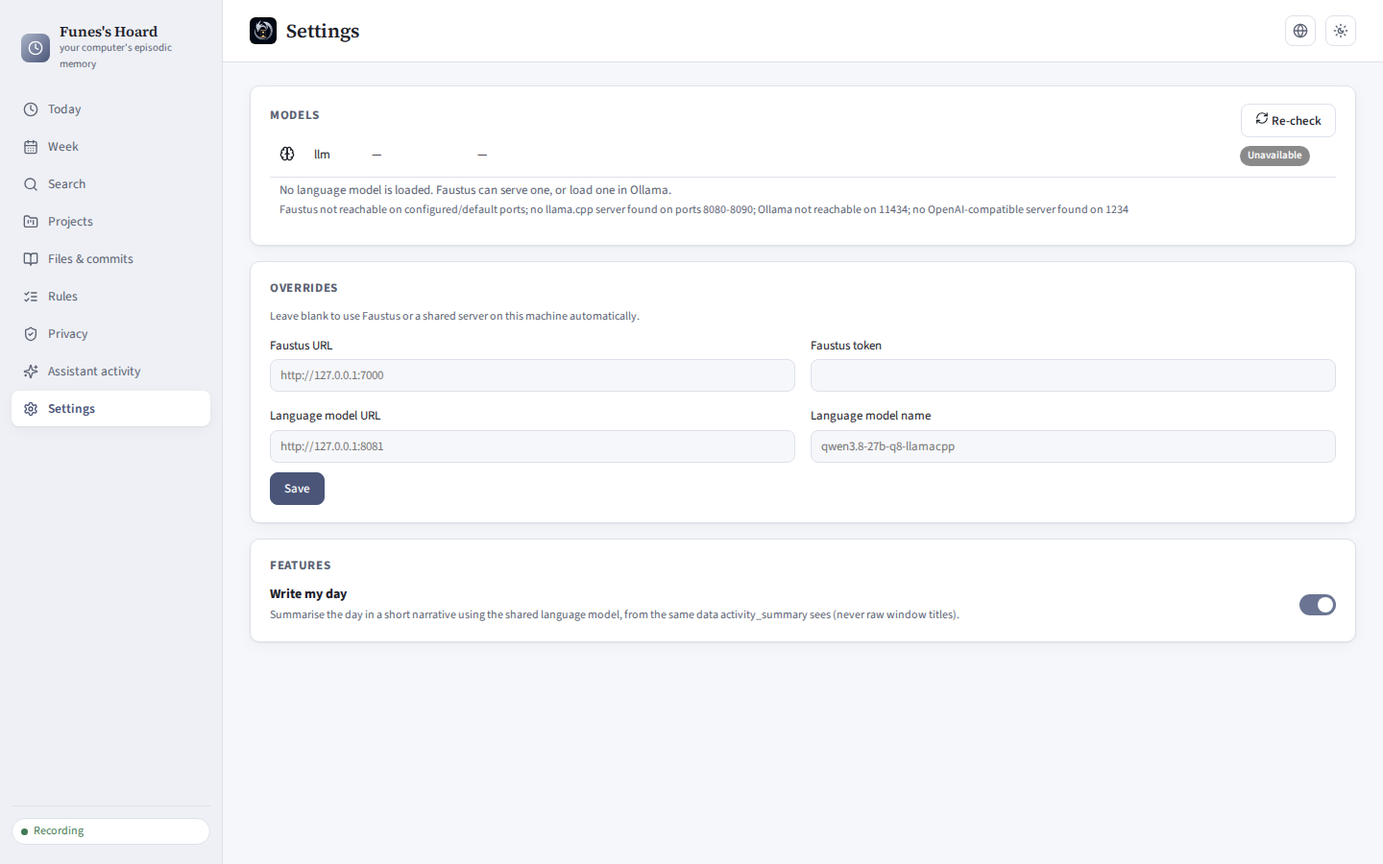
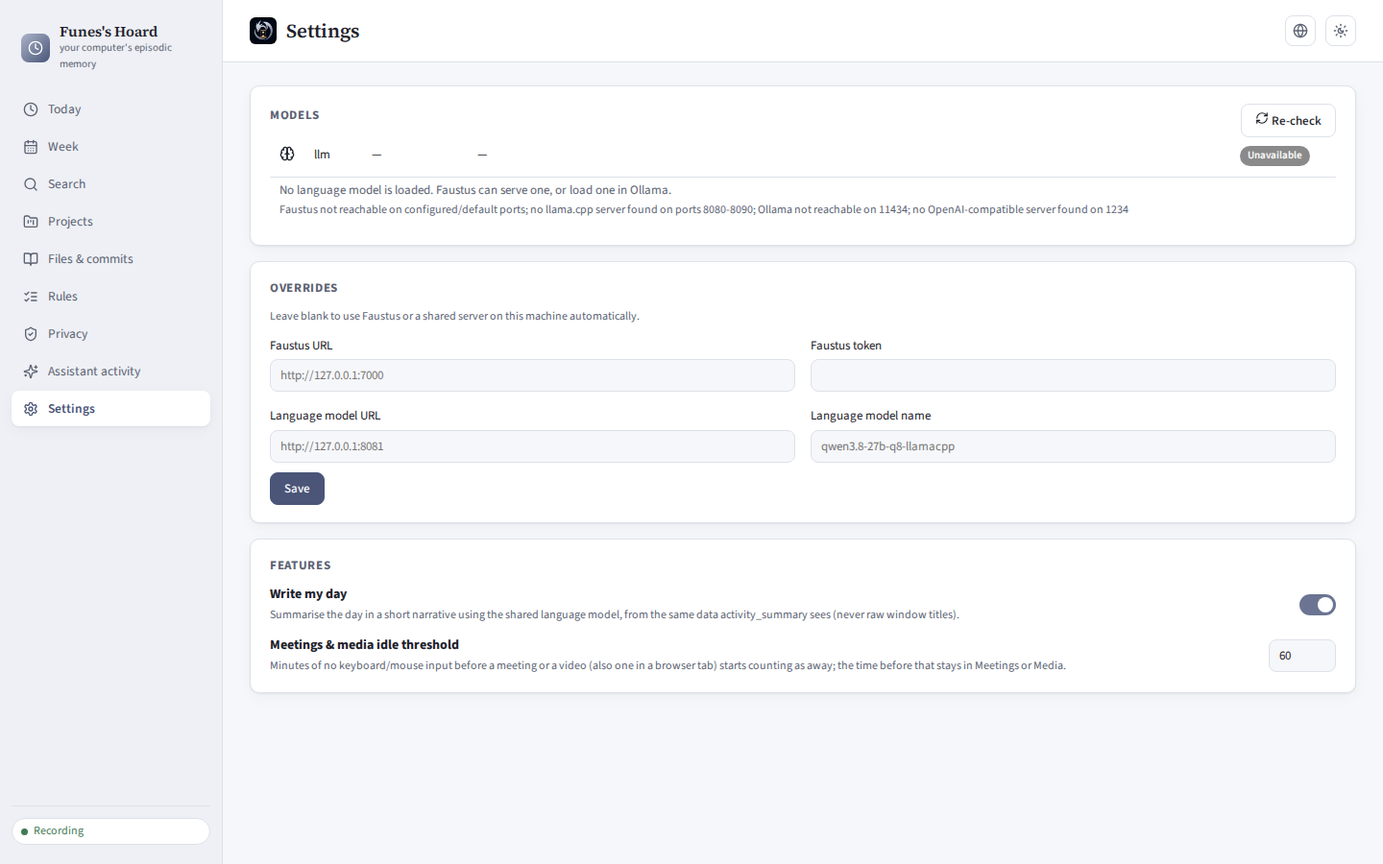
docs: add use cases to the READMEs and record the re-walk
Both READMEs get a short "Use cases" section linking to
docs/USE_CASES.md, and their feature table, limits and test count (270)
describe what the re-walk added. USE_CASES.md follows the new steps (the
Where was I? card, the delete shortcut, the CSV export, `around`),
ARCHITECTURE.md explains the meetings/media away rule, and
USABILITY_REPORT.md records what the second walk found, what was fixed,
a verdict per use case and what is still open. The screenshots are
retaken from the demo data.

Claude-Session: https://claude.ai/code/session_019KVoFTp2agjwLaonbFXam5

Changed region(s): [[0.1875, 0.7156, 0.7812, 0.7778]]

diff --git a/README.es.md b/README.es.md
@@ -6,7 +6,7 @@
 
 [English](README.md) · [Ejecutar en local](#ejecutar-en-local-en-windows) · [Conectar una IA](docs/MCP.md) · [Portfolio](https://luissalet.github.io/Portfolio/#projects)
 
-![Vista del día: la línea de tiempo de ayer ajustada a las horas activas, un tramo fijado y totales por categoría, aplicación y proyecto](docs/media/today.png)
+![Vista del día: la línea de tiempo de ayer ajustada a las horas activas con la ausencia rayada, un tramo fijado y la tarjeta ¿Dónde lo dejé? con los últimos contextos de trabajo](docs/media/today.png)
 *Aplicación real, tres días de datos de demostración sintéticos (`--demo`, sin títulos de ventana reales).*
 
 ## Por qué
@@ -21,19 +21,50 @@ archivos que abriste y los commits que hiciste. Lo convierte en tramos,
 resúmenes del día, bloques de concentración y respuestas para retomar el
 contexto, y le da al asistente ocho herramientas pequeñas para consultarlo.
 
+## Casos de uso
+
+Ocho escenarios concretos, recorridos de principio a fin como persona en el
+navegador y como modelo local por MCP ([docs/USE_CASES.md](docs/USE_CASES.md);
+hallazgos y arreglos en [docs/USABILITY_REPORT.md](docs/USABILITY_REPORT.md)):
+
+- **Lunes por la mañana, "¿dónde lo dejé?"**: la pantalla Hoy abre con los
+  tres últimos contextos de trabajo (proyecto, últimos títulos, archivos,
+  commits), así que el último archivo del viernes se ve antes de elegir un
+  día; un clic fija ese momento en la línea de tiempo de su día.
+- **"Faustus, ¿dónde lo dejé ayer?"**: una sola llamada a
+  `activity_where_was_i`, unos 500 tokens, responde con el proyecto, la
+  ventana y el título del editor que nombra el archivo, sin contar la música
+  ni el chat.
+- **Una nota semanal para la búsqueda de empleo**: `activity_summary` da
+  las horas por proyecto como textos listos para leer, y una búsqueda de
+  los portales de empleo o del título de la novela dice cuánto tiempo
+  estuvieron abiertas esas ventanas; Faustus escribe la nota con su propia
+  herramienta de notas.
+- **"Esa página de FTS5 del martes"**: buscas, haces clic en el resultado y
+  llegas a ese día con el tramo fijado (la dirección lo conserva, así que
+  recargar y Atrás funcionan); un agente pasa el `ts` del resultado a
+  `activity_timeline(around=...)`.
+- **Privacidad antes de una entrevista o del banco**: pausa de una hora,
+  las ventanas privadas (también "incógnito" en español) y las páginas del
+  banco nunca se pueden buscar, y "Últimos 30 min" rellena el borrado de un
+  rango para la media hora que se te olvidó.
+- **Horas por proyecto para un gráfico**: exporta los tramos a CSV (fechas y
+  horas locales, minutos, categoría, proyecto) para una hoja de cálculo o la
+  app de análisis de datos.
+
 ## Qué está implementado
 
 | Área | Disponible ahora | Límite |
 | --- | --- | --- |
-| Captura | Aplicación en primer plano, título de ventana, inactividad y bloqueo, muestreados cada segundo en Windows (`ctypes` + `psutil`); agrupados en tramos activo/ausente/bloqueado; la ausencia empieza cuando dejaste de usar teclado y ratón, no cuando se detecta; las suspensiones y los momentos excluidos o en pausa cierran el tramo en lugar de estirarlo; el tramo abierto se guarda cada 30 s y, si la aplicación se cae, se cierra al volver a arrancar | La sonda de Linux (`xdotool`/`xprintidle`) es solo para desarrollo; las llamadas Win32 no se han ejecutado en este entorno (ver la nota de Windows) |
-| Privacidad | Las reglas de exclusión descartan la muestra antes de guardarla (gestores de contraseñas, ventanas privadas o de incógnito, en inglés y español); las de ocultación guardan la aplicación y sustituyen el título; las reglas no válidas se rechazan en lugar de ignorarse en silencio; pausa de 15 min, 1 h o hasta reanudar, que se reanuda sola; purga por antigüedad; borrado de un rango (incluidos los tramos que lo solapan y sus entradas de búsqueda); exportación a JSON | Las reglas se aplican desde que se añaden, no a los títulos ya guardados |
+| Captura | Aplicación en primer plano, título de ventana, inactividad y bloqueo, muestreados cada segundo en Windows (`ctypes` + `psutil`); agrupados en tramos activo/ausente/bloqueado; la ausencia empieza cuando dejaste de usar teclado y ratón, no cuando se detecta, salvo en una reunión o un vídeo (también en una pestaña del navegador), que tienen un umbral aparte y más largo (60 min por defecto) antes de que solo lo que pase de él cuente como ausencia; las suspensiones y los momentos excluidos o en pausa cierran el tramo en lugar de estirarlo; el tramo abierto se guarda cada 30 s y, si la aplicación se cae, se cierra al volver a arrancar | La sonda de Linux (`xdotool`/`xprintidle`) es solo para desarrollo; las llamadas Win32 no se han ejecutado en este entorno (ver la nota de Windows) |
+| Privacidad | Las reglas de exclusión descartan la muestra antes de guardarla (gestores de contraseñas, ventanas privadas o de incógnito, en inglés y español); las de ocultación guardan la aplicación y sustituyen el título; las reglas no válidas se rechazan en lugar de ignorarse en silencio; pausa de 15 min, 1 h o hasta reanudar, que se reanuda sola; purga por antigüedad; borrado de un rango (incluidos los tramos que lo solapan y sus entradas de búsqueda), con atajos de últimos 15 min / 30 min / última hora / hoy; exportación de los tramos a CSV o de todo a JSON, opcionalmente para un rango de días | Las reglas se aplican desde que se añaden, no a los títulos ya guardados |
 | Clasificación | Reglas ordenadas por aplicación, expresión regular del título o dominio en el título, con valores por defecto para las aplicaciones habituales de Windows; detección del proyecto en títulos de VS Code (carpetas con guiones, remotas e Insiders), JetBrains y Visual Studio, y por los nombres de los repositorios git encontrados; vista previa ("reclasificaría N tramos"); reaplicación al historial en segundo plano, con progreso | No se lee la barra de direcciones del navegador; una regla de "dominio" busca el texto en el título |
-| Conocimiento derivado | Totales por día, semana o rango, por categoría, aplicación y proyecto, recortados en los bordes del periodo; primera y última actividad; cambios de contexto (>= 10 s); bloques de concentración (>= 25 min, cada interrupción <= 2 min); "dónde estaba" con contextos distintos, su último título, archivos y commits | La concentración se mide por tiempo en ventana; no dice nada de la atención real |
+| Conocimiento derivado | Totales por día, semana o rango, por categoría, aplicación y proyecto, recortados en los bordes del periodo; primera y última actividad; cambios de contexto (>= 10 s); bloques de concentración (>= 25 min, cada interrupción <= 2 min); "dónde estaba" con contextos distintos (primero el trabajo; sin música, chats ni juegos salvo que se pida), sus últimos títulos, archivos (primero los del propio proyecto) y commits | La concentración se mide por tiempo en ventana; no dice nada de la atención real |
 | Otras fuentes | Archivos recientes mediante un lector de accesos directos (`.lnk`) escrito a partir de la especificación (rutas Unicode, sufijos de ruta, archivos truncados rechazados); commits de git en las carpetas configuradas, filtrados por los autores indicados o, por defecto, por la identidad git de cada repositorio | No se ven los archivos que no pasan por "Elementos recientes" de Windows |
-| Búsqueda | SQLite FTS5 sobre títulos, rutas de archivo y asuntos de commits, sin distinguir tildes, por prefijo de palabra y a prueba de cualquier entrada; si no aparece nada con todas las palabras, prueba con cualquiera | Si el sqlite3 de la plataforma no trae FTS5, se usa una búsqueda `LIKE` (se comprueba al arrancar) |
-| API del agente | Ocho herramientas, de solo lectura salvo una pausa que solo puede alargarse; horas ISO locales y textos legibles en cada resultado; límites pequeños con `has_more`/`next_offset`; todas las llamadas quedan registradas, también las rechazadas | Por diseño, el agente no puede reanudar, cambiar reglas, borrar ni exportar |
+| Búsqueda | SQLite FTS5 sobre títulos, rutas de archivo y asuntos de commits, sin distinguir tildes, por prefijo de palabra y a prueba de cualquier entrada; si no aparece nada con todas las palabras, prueba con cualquiera; un resultado de ventana dice cuánto tiempo estuvo abierta y, en la interfaz, abre su día en ese momento | Si el sqlite3 de la plataforma no trae FTS5, se usa una búsqueda `LIKE` (se comprueba al arrancar) |
+| API del agente | Ocho herramientas, de solo lectura salvo una pausa que solo puede alargarse; horas ISO locales y textos legibles en cada resultado; límites pequeños con `has_more`/`next_offset`; los ids y las horas se encadenan de una llamada a la siguiente (`activity_timeline(around=<ts de un resultado>)`); todas las llamadas quedan registradas, también las rechazadas | Por diseño, el agente no puede reanudar, cambiar reglas, borrar ni exportar |
 | Modelos compartidos | "Escribe mi día": una narración breve del día en segunda persona ("You spent the morning on..."; el modelo recibe las instrucciones en inglés y suele responder en inglés), guardada y regenerable, a partir de los mismos datos compactos que devuelve `activity_summary` (nunca títulos reales u ocultados); en Ajustes se ve el modelo resuelto, el proveedor y, si no hay ninguno, el motivo en una frase, con un botón para volver a comprobar y ajustes manuales | Solo en la interfaz, no es una herramienta MCP; necesita un modelo de lenguaje accesible por Hoard Link (Faustus, o un Ollama/llama.cpp/OpenAI-compatible compartido); un día sin nada registrado se rechaza sin llamar al modelo |
-| Interfaz | Hoy (línea de tiempo con zoom, leyenda, detalle fijado y "Escribe mi día"), Semana (navegable), Buscar (filtro de fechas), Proyectos (selector de periodo), Archivos y commits, Reglas, Privacidad, Ajustes (Modelos), Actividad del asistente; español e inglés; tema claro y oscuro | Pensada para escritorio, no para móvil |
+| Interfaz | Hoy (línea de tiempo con zoom en la que se ven la ausencia y el bloqueo, leyenda, detalle fijado, tramos accesibles con el teclado, "¿Dónde lo dejé?" y "Escribe mi día"), Semana (navegable), Buscar (filtro de fechas), Proyectos (selector de periodo), Archivos y commits, Reglas, Privacidad, Ajustes (Modelos), Actividad del asistente; cada día y cada momento tienen su propia dirección (recargar y Atrás funcionan); español e inglés; tema claro y oscuro | Pensada para escritorio, no para móvil |
 
 Más pantallas: [Buscar](docs/media/search.png) · [Privacidad](docs/media/privacy.png) ·
 [Ajustes](docs/media/settings.png) ·
@@ -109,7 +140,7 @@ ni sqlite. Detalles en [docs/ARCHITECTURE.md](docs/ARCHITECTURE.md).
 ## Pruebas
 
 ```
-.venv/bin/python -m pytest -q          # 251 pasan en unos 14 s
+.venv/bin/python -m pytest -q          # 270 pasan en unos 15 s
 cd frontend && npm ci && npm run build  # 0 errores de TypeScript
 ```
 
@@ -151,7 +182,7 @@ de llamadas.
 - El asistente solo ve lo que devuelven las ocho herramientas y solo puede
   hacer una cosa: pausar (o alargar una pausa). Cada llamada aparece en
   "Actividad del asistente".
-- Los resultados están acotados (de 5 a 40 elementos por defecto, 100 como
+- Los resultados están acotados (de 5 a 20 elementos por defecto, 100 como
   máximo) y los títulos largos se recortan, porque quien los lee es un
   modelo local con un contexto limitado.
 - "Escribe mi día" solo envía al modelo de lenguaje los datos compactos de

diff --git a/README.md b/README.md
@@ -6,7 +6,7 @@
 
 [Español](README.es.md) · [Run locally](#run-locally-on-windows) · [Connect an AI](docs/MCP.md) · [Portfolio](https://luissalet.github.io/Portfolio/#projects)
 
-![Day view: yesterday's timeline zoomed to the active hours, one segment pinned, totals by category, app and project](docs/media/today.png)
+![Day view: yesterday's timeline zoomed to the active hours with away time hatched, one segment pinned, and the Where was I? card with the last work contexts](docs/media/today.png)
 *Actual application, three days of synthetic demo data (`--demo`, no real window titles).*
 
 ## Why
@@ -20,19 +20,47 @@ locked time, the files they opened and the commits they made. It turns
 that into spans, day summaries, focus blocks and resume-context answers,
 and gives the assistant eight small tools to ask for them.
 
+## Use cases
+
+Eight concrete scenarios, each walked end to end as a person in the browser
+and as a local model over MCP ([docs/USE_CASES.md](docs/USE_CASES.md), findings
+and fixes in [docs/USABILITY_REPORT.md](docs/USABILITY_REPORT.md)):
+
+- **Monday morning, "where was I?"**: the Today screen opens with the last
+  three work contexts before now (project, last titles, files, commits), so
+  Friday's last file is on screen before you pick a day; one click pins that
+  moment in its day's timeline.
+- **"Faustus, ¿dónde lo dejé ayer?"**: one `activity_where_was_i` call,
+  about 500 tokens, answers with the project, the window and the editor
+  title that names the file, skipping the music player and the chat.
+- **A weekly note for the job hunt**: `activity_summary` gives hours per
+  project as ready-to-read strings, and a search for the job boards or the
+  novel's title says how long those windows were open; Faustus writes the
+  note with its own notes tool.
+- **"That FTS5 page from Tuesday"**: search, click the hit and land on that
+  day with the segment pinned (the address keeps it, so reload and Back
+  work); an agent passes the hit's `ts` to `activity_timeline(around=...)`.
+- **Privacy before an interview or the bank**: pause for an hour, private
+  windows (also Spanish "incógnito") and bank pages never become searchable,
+  and "Last 30 min" fills the delete-range pickers for the half hour you
+  forgot.
+- **Hours per project for a chart**: export spans as CSV (local dates and
+  times, minutes, category, project) for a spreadsheet or the data-analysis
+  app.
+
 ## What is implemented
 
 | Area | Available now | Boundary |
 | --- | --- | --- |
-| Collection | Foreground app, window title, idle and locked state sampled every second on Windows (`ctypes` + `psutil`); merged into active/away/locked spans; away time back-dated to when input stopped; sleep gaps and excluded or paused moments close the span instead of bridging it; the open span is flushed every 30 s and a crashed session's span is closed on the next start | The Linux probe (`xdotool`/`xprintidle`) is a development aid; the Win32 calls themselves were not run in this build environment (see the Windows note) |
-| Privacy | Exclusion rules drop a sample before it is stored (password managers, private/incognito windows, EN+ES); redaction rules keep the app and replace the title; invalid rules are rejected, not silently ignored; pause 15 min / 1 h / until resumed, with automatic resume; retention purge; delete a range (overlapping spans and their search rows included); JSON export | Rules apply from the moment they are added, not retroactively to stored titles |
+| Collection | Foreground app, window title, idle and locked state sampled every second on Windows (`ctypes` + `psutil`); merged into active/away/locked spans; away time back-dated to when input stopped, except in a meeting or a video (also one in a browser tab), which get a separate, longer threshold (60 min by default) before only the rest counts as away; sleep gaps and excluded or paused moments close the span instead of bridging it; the open span is flushed every 30 s and a crashed session's span is closed on the next start | The Linux probe (`xdotool`/`xprintidle`) is a development aid; the Win32 calls themselves were not run in this build environment (see the Windows note) |
+| Privacy | Exclusion rules drop a sample before it is stored (password managers, private/incognito windows, EN+ES); redaction rules keep the app and replace the title; invalid rules are rejected, not silently ignored; pause 15 min / 1 h / until resumed, with automatic resume; retention purge; delete a range (overlapping spans and their search rows included), with last 15 min / 30 min / hour / today shortcuts; export spans as CSV or everything as JSON, optionally for a range of days | Rules apply from the moment they are added, not retroactively to stored titles |
 | Classification | Ordered app / title-regex / domain-in-title rules with defaults for common Windows apps; project detection from VS Code (hyphenated folders, remote and Insiders titles), JetBrains and Visual Studio titles, plus the names of discovered git repos; live preview ("would reclassify N spans"); reapply to history as a background job with progress | Browser domains are not read from the address bar; a "domain" rule matches text in the title |
-| Derived knowledge | Day, week and range totals by category/app/project, clipped at the window edges; first/last activity; context switches (>= 10 s dwell); focus blocks (>= 25 min, each interruption <= 2 min); "where was I" with distinct contexts, their last title, files and commits | Focus is measured from window time only; it says nothing about attention |
+| Derived knowledge | Day, week and range totals by category/app/project, clipped at the window edges; first/last activity; context switches (>= 10 s dwell); focus blocks (>= 25 min, each interruption <= 2 min); "where was I" with distinct contexts (work first; music, chat and games left out unless asked), their recent titles, files (the project's own first) and commits | Focus is measured from window time only; it says nothing about attention |
 | Other sources | Recent files from a Shell Link (`.lnk`) parser written from the spec (Unicode paths, path suffixes, truncated files rejected); git commits from configured roots, filtered by configured authors or, by default, each repo's own git identity | Files opened without passing through Windows Recent Items are not seen |
-| Search | SQLite FTS5 over titles, file paths and commit subjects, accent-insensitive, prefix words, safe for any input; falls back to "any word" when all words find nothing | If the platform's sqlite3 lacks FTS5 the app uses `LIKE` search (checked at startup) |
-| Agent API | Eight tools, read-only except a pause that can only extend; local ISO times and human strings in every result; small limits with `has_more`/`next_offset`; every call audited, including rejected ones | The agent cannot resume, change rules, delete or export, by design |
+| Search | SQLite FTS5 over titles, file paths and commit subjects, accent-insensitive, prefix words, safe for any input; falls back to "any word" when all words find nothing; a window hit says how long it was open and, in the interface, opens its day at that moment | If the platform's sqlite3 lacks FTS5 the app uses `LIKE` search (checked at startup) |
+| Agent API | Eight tools, read-only except a pause that can only extend; local ISO times and human strings in every result; small limits with `has_more`/`next_offset`; ids and times chain from one call into the next (`activity_timeline(around=<a hit's ts>)`); every call audited, including rejected ones | The agent cannot resume, change rules, delete or export, by design |
 | Shared models | "Write my day": a cached, regenerable short narrative of a day ("You spent the morning on..."), from the same compact data `activity_summary` returns (never raw or redacted titles); Settings shows the resolved model, provider and a plain-English reason when none is available, with a Re-check button and manual overrides | UI-only, not an MCP tool; needs a language model reachable through Hoard Link (Faustus, or a shared Ollama/llama.cpp/OpenAI-compatible server); a day with nothing recorded is refused without calling the model |
-| Interface | Today (zoomable timeline, legend, pinned details, Write my day), Week (navigable), Search (date filter), Projects (range picker), Files & commits, Rules, Privacy, Settings (Models), Assistant activity; English/Spanish; light/dark | Desktop layout; not designed for phones |
+| Interface | Today (zoomable timeline with away and locked time drawn, legend, pinned details, keyboard-focusable segments, Where was I?, Write my day), Week (navigable), Search (date filter), Projects (range picker), Files & commits, Rules, Privacy, Settings (Models), Assistant activity; every day and moment has its own address (reload and Back work); English/Spanish; light/dark | Desktop layout; not designed for phones |
 
 More screens: [Search](docs/media/search.png) · [Privacy](docs/media/privacy.png) ·
 [Settings](docs/media/settings.png) ·
@@ -105,7 +133,7 @@ or sqlite imports. See [docs/ARCHITECTURE.md](docs/ARCHITECTURE.md).
 ## Tests
 
 ```
-.venv/bin/python -m pytest -q          # 251 passed in about 14 s
+.venv/bin/python -m pytest -q          # 270 passed in about 15 s
 cd frontend && npm ci && npm run build  # 0 TypeScript errors
 ```
 
@@ -140,7 +168,7 @@ log.
 - The assistant sees only what the eight tools return and can do exactly
   one thing: pause (or lengthen a pause). Every call is listed in
   "Assistant activity".
-- Results are capped (default 5-40 items, maximum 100) and long titles are
+- Results are capped (default 5-20 items, maximum 100) and long titles are
   truncated, because the intended consumer is a local model with a finite
   context window.
 - "Write my day" only ever sends the compact `activity_summary` data

diff --git a/docs/USABILITY_REPORT.md b/docs/USABILITY_REPORT.md
@@ -259,6 +259,8 @@ other commit in this repo; each commit is small and self-contained.
 
 ### Left for a later pass, and why
 
+*All of these were done in the re-walk; see "Re-walk after the fixes" below.*
+
 - **A8 (search hits cannot be traced to their surroundings)** and **A9
   (delete-range presets)** and **A10 (CSV export + a range picker in the
   UI)** are UI/UX additions (click-through routing, preset buttons, a new
@@ -278,3 +280,70 @@ other commit in this repo; each commit is small and self-contained.
   as the bar to keep green, not a full browser re-walk. Every fix above has
   its own unit/integration regression test instead. A screenshot re-walk
   after the deferred UI items land would be the natural next step.
+
+## Re-walk after the fixes
+
+Every use case was walked again, on data regenerated with the fixed
+collector (38 repos, 14 days, 90,329 samples -> 572 spans; zero overlapping
+and zero zero-length spans), as a person (`scripts/ui_walkthrough.py`, 1280x800
+English and 1920x1080 Spanish, every screenshot read) and as an agent
+(`scripts/agent_walkthrough.py`, 22 calls over real MCP stdio). Both scripts
+now assert each use case's "done when" and exit non-zero when one fails; the
+final runs pass every check with no console errors and no result carrying an
+image. Tests: 251 -> 270 (every fix below has its regression test; the
+interface changes are checked by the walkthrough's assertions), plus
+`npm ci && npm run build`, the MCP protocol test and the manifest test.
+
+### What the re-walk still found, and what was done
+
+| Use case | Found | Fix | Commit |
+|---|---|---|---|
+| UC3 | The first A3 fix did not hold on real data: the 45-minute Zoom interview was still 45 minutes away and every fan film was away. Once past the threshold, the away span was back-dated to the last input (the start of the call), and films in a browser tab were Browsing with the 2-minute threshold. | Meetings/Media away starts when the threshold is crossed, not at the last input; default 60 min; a streaming-site title rule (YouTube, Netflix, Twitch...) placed before the browser rules, by an ordered migration. Both interviews are now 45 min of Meetings, the films 9.2 h of Media. | `487166a` |
+| UC4 (agent) | Chaining a hit into "what was around it" needed ISO arithmetic by the model. | `activity_timeline(around=<hit ts>)`, +-30 min, every span. | `8968650` |
+| UC3 (agent) | The job search and the novel could be counted, not measured. | Window hits carry `duration_s`/`human`; the result totals them in `windows_open_human` (job boards 38 min, novel 1 h 36 min this week). | `8968650` |
+| UC1/UC2 | "Where was I" named the project but its title was the final terminal (`pwsh - daguerres-hoard`); the file was nowhere, and unrelated files came first. | `recent_titles` (the editor title is the second one); files inside the project's folder first; `app` matches the last title. | `8968650`, `ef2d9a3` |
+| UC1 (person) | No "where was I" in the interface; header said "Today" on Monday. | A "Where was I?" card on Today (before now, or before the shown day ended) with "Show in timeline"; header says Yesterday/Day. | `db73474` |
+| UC4 (person) | A8: a hit was plain text; reload lost the day, Back left the app. | Hash routes for view, day and moment; a hit opens its day with the segment pinned; reload and Back work (checked in the walkthrough). | `db73474` |
+| UC5 | A9: delete range was two bare pickers. | Last 15 min / 30 min / hour / today shortcuts; the confirmation is unchanged. | `db73474` |
+| UC8 | A10: JSON with epoch seconds only. | `GET /api/privacy/export.csv` and a From/To day range in the UI; grouping the CSV by `date` and `project` gives hours per day with stdlib `csv` alone. | `ef2d9a3`, `db73474` |
+| all | A browser reporting `en-US@posix` (headless Chromium on this box) made every date format throw and blanked the whole app. | Such a locale falls back to the default; the walkthrough opens the app once with the browser's own locale. | `db73474` |
+| cosmetic | C2, C3, C4, C6; "0m" for 12-second blips. | Away/locked drawn hatched with legend entries; header; English backend reason behind "Technical details"; focusable segments (Enter pins); "<1m". | `db73474` |
+
+### Verdict per use case
+
+- **UC1 Monday "where was I?"** -- works. The card shows the last three work
+  contexts (project, the editor title naming the file, files, commits) on
+  opening; "Show in timeline" pins the moment.
+- **UC2 "¿dónde lo dejé ayer?"** -- works. One call, ~480 tokens, project
+  first, music and chat skipped, the file in `recent_titles`.
+- **UC3 weekly review** -- works with a caveat: hours per project, the job
+  search and the novel all come as human strings, meetings are counted; the
+  note itself is written by Faustus's notes tool, which was not available
+  here (composed, not saved).
+- **UC4 "that FTS5 page"** -- works, in the UI (click -> pinned moment) and
+  over MCP (`around`).
+- **UC5 privacy** -- works: pause shown with its end time, "incógnito" and
+  the bank page find nothing in the UI or over MCP, delete shortcuts.
+- **UC6 dozens of repos** -- works on Linux: 38 repos, first scan 0.5 s,
+  bad folder refused, "38 repos found, last scanned ...", Projects shows the
+  six own projects only. Git process cost on Windows is still unmeasured.
+- **UC7 back after 50 minutes** -- works: restarted with 3,100 s idle, the
+  away span starts at the end of the last recorded span (no overlap, no
+  52-minute back-dating), `activity_now` says away, and the first input
+  opens an active span.
+- **UC8 hours for a chart** -- works: CSV export with local dates, times,
+  minutes and projects; redacted titles stay `[redacted]`, excluded windows
+  are absent.
+
+### Still open
+
+- The Win32 probe, Windows Recent Items and git cost on Windows remain
+  untested from this environment (see "Not tested").
+- The Models panel in Settings shows the backend's diagnostic reason in
+  English in both languages (it is the diagnostic; the sentence above it is
+  translated).
+- In the interface, "Where was I?" only looks three days back (the same
+  window the tool uses); after a longer absence it says there is nothing to
+  pick up.
+- A title rule still decides streaming vs. browsing: a video on a site the
+  rule does not know stays Browsing with the ordinary threshold.

diff --git a/docs/USE_CASES.md b/docs/USE_CASES.md
@@ -26,9 +26,11 @@ productions in the evening.
   locked screen.
 - **Steps (UI):**
   1. Open `http://127.0.0.1:8813`. The Today view is empty-ish (the day just
-     started).
-  2. Switch the day to Friday (or "Yesterday" on a Tuesday) and read the
-     timeline end: last project, last window title, files and commits.
+     started), but its **Where was I?** card lists the last three work
+     contexts before now -- Friday's -- with project, last titles, files and
+     commits.
+  2. Click **Show in timeline** on the first one: Friday opens with that
+     moment pinned (or switch the day by hand and read the timeline end).
   3. Open **Files & commits** to see the last files opened and the last
      commit subject.
 - **Done when:** in under a minute the user can say "I was in
@@ -64,7 +66,8 @@ productions in the evening.
 - **Expected tool calls:** `activity_summary(day="esta semana",
   group_by="all")`, `activity_projects(since="esta semana")`, optionally
   `activity_search("LinkedIn InfoJobs", since="esta semana")` to size the job
-  search; then Faustus's own note-writing tool with the text it composed.
+  search (its `windows_open_human` is how long those windows were open);
+  then Faustus's own note-writing tool with the text it composed.
 - **Done when:** the numbers in the note are the `*_human` strings the tools
   returned, projects are real ones (not random repo names or words from
   window titles), and the job search and the novel are identifiable.
@@ -78,8 +81,7 @@ productions in the evening.
   date to last week -> click the hit -> land on that day's timeline at that
   moment.
 - **Agent variant:** "Faustus, ¿cuándo estuve mirando lo de FTS5?" ->
-  `activity_search("fts5")` -> `activity_timeline(start=<hit ts minus a bit>,
-  end=<hit ts plus a bit>)`.
+  `activity_search("fts5")` -> `activity_timeline(around=<the hit's ts>)`.
 - **Done when:** the right hit is first, its day and hour are readable, and
   there is a way to see the surrounding activity without retyping dates.
 
@@ -94,7 +96,8 @@ productions in the evening.
      when.
   2. After the pause, open a private window (Chrome in Spanish: "Nueva
      pestaña de incógnito") and a bank page ("Banco ... - Área de clientes").
-  3. **Privacy** -> Delete range for the half hour he forgot.
+  3. **Privacy** -> Delete a time range -> **Last 30 min** (or the exact
+     start and end) -> Delete -> confirm, for the half hour he forgot.
 - **Agent variant:** "Faustus, no me grabes la próxima media hora" ->
   `activity_pause(minutes=30)` -> "¿me estás grabando?" -> `activity_now()`.
 - **Done when:** search for the interview company or the bank finds nothing
@@ -137,8 +140,9 @@ productions in the evening.
   portfolio write-up.
 - **Goal:** get the raw data out of Funes's Hoard and into the data-analysis
   app.
-- **Steps:** **Privacy** -> Export JSON -> open the file in Laplace's Hoard ->
-  group `spans` by day and project.
+- **Steps:** **Privacy** -> Export -> (optionally a From/To day range) ->
+  **Spans as CSV** -> open the file in Laplace's Hoard -> group by `date` and
+  `project`, sum `duration_min`.
 - **Done when:** the export is a well-formed file with local-readable times
   and the project/category fields the analysis needs, and it never contains
   titles that were redacted.

diff --git a/docs/ARCHITECTURE.md b/docs/ARCHITECTURE.md
@@ -51,6 +51,15 @@ The **open span is flushed to sqlite every 30 seconds** (`FLUSH_INTERVAL_S`
 in `collector.py`) so a crash loses at most the last 30s of the current
 span, not the whole session -- proven by `tests/test_collector.py`.
 
+**Away** starts when `idle_s` reaches the threshold (`away_after_s`, 2 min)
+and is back-dated to the last input, never before the end of what is
+already recorded (the builder's floor, raised at startup and after a pause).
+While the foreground window classifies as **Meetings or Media** (a call, a
+film, also one in a browser tab via the streaming title rule) the collector
+passes a longer threshold (`away_after_meetings_s`, 60 min) and
+`passive=True`: then the away span starts only when that threshold is
+crossed, so a 45-minute call with no typing stays a meeting.
+
 A **sleep/hibernate gap** (no samples for >90s, `SpanBuilder.sleep_gap_s`)
 closes the open span at the *last* sample's timestamp instead of bridging
 the gap, so a laptop that slept for two hours does not get credited two
